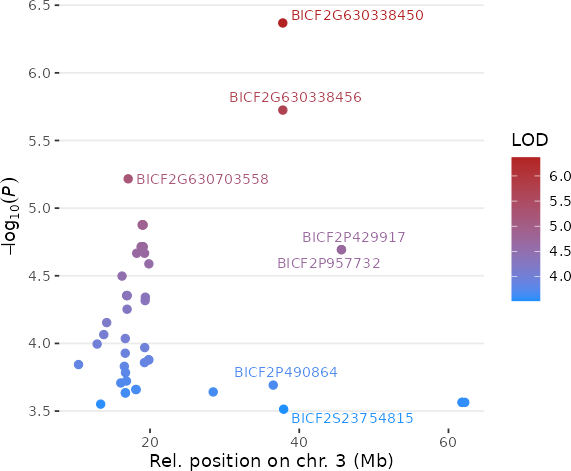
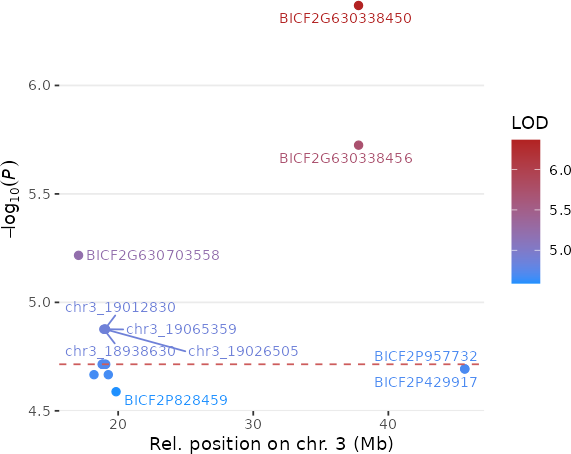
README

diff --git a/README.md b/README.md
@@ -41,9 +41,11 @@ of association with the trait on the y-axis. The red-dashed lines are representa
 
 2. b. Plot of the top significant SNPs identified in the above GWAS.
 
+   <small>Points are jittered around their respective chromosome, not representing the chromosome position.</small>
+
 <img src="Figures/top_SNPs_comb.png" height="350px">
 
-and a zoom in the chromosome 3 above LOD 3.5.
+and a zoom in the chromosome 3 above the 99.99 percentile (LOD score = 4.71).
 
 <img src="Figures/SNP_chr3_top.png" height="350px">
 
